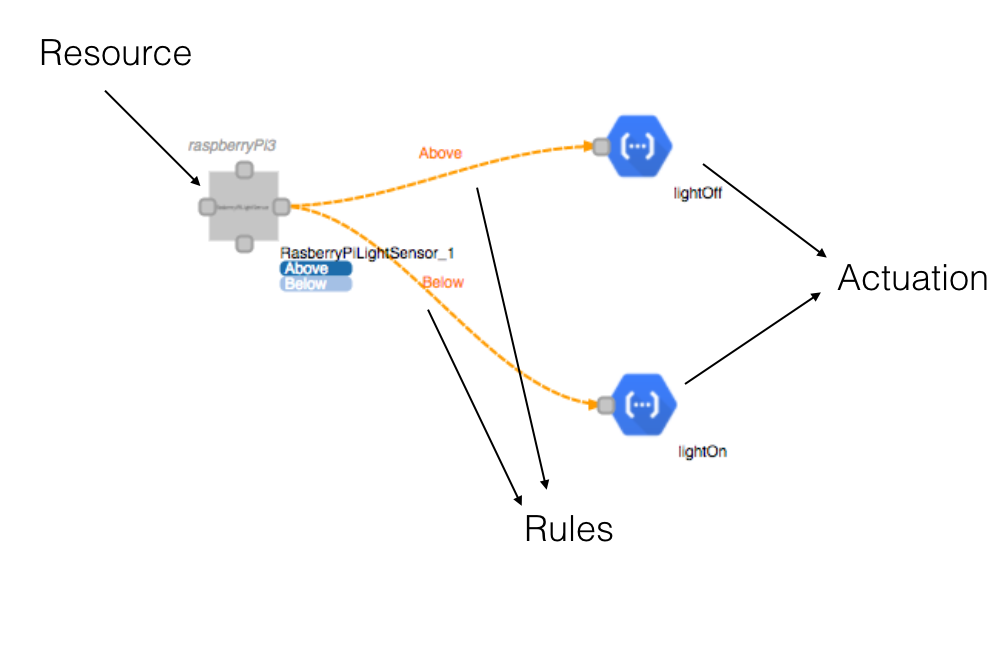
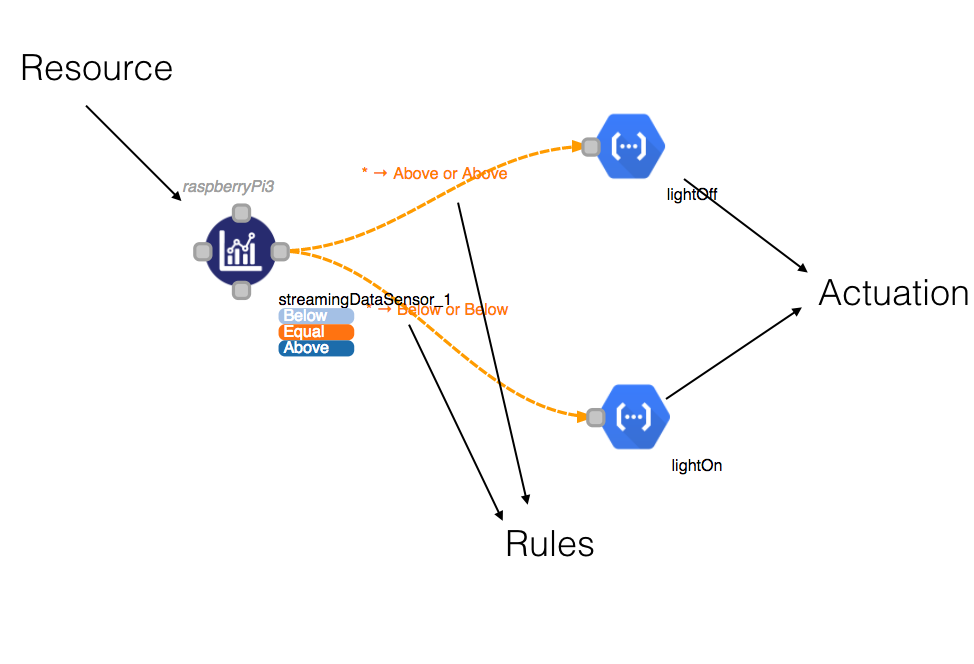
refactored google pub sub docs (#13)

diff --git a/content/iothubs/google.md b/content/iothubs/google.md
@@ -100,17 +100,39 @@ In the Google Cloud Menu go to ‘Pub/Sub’ and choose ‘Topics’, you will n
 Enter a unique name identifier and choose the delivery type.
 
 {{% alert info %}}
-For sending data to waylay select ‘Push into an endpoint url’ -> This will be the url of the Webscript that will manipulate the data to push it to the Waylay Broker.
-{{% /alert %}}
-
-
-For testing purposes on the Staging platform on waylay you can use this endpoint URL:
-
-https://webscripts-staging.waylay.io/api/v1/6ccc8843-d78d-49e8-84c4-3734a4af9929/testMQTT
-
-{{% alert info %}}
+For sending data to waylay select ‘Push into an endpoint url’ -> This will be the url of the Webscript that will manipulate the data to push it to the Waylay Broker (**see next section**).
 For pushing data from a Subscription to the Waylay Webscript you should contact us for verifying the domain name for you. Contact us at support@waylay.io
 {{% /alert %}}
+
+## Webscript
+
+Create a webscript on your own domain. Use following code to manipulate the data that comes from your Topic.
+
+```javascript
+waylay.data.baseUrl = 'https://data.waylay.io'
+
+function handleRequest (req, res) {
+  const { body } = req
+  const { attributes, data } = body.message
+  
+  try {
+    const payload = new Buffer(data, 'base64').toString('utf8')  
+    const { deviceId } = attributes
+    
+    const parsedPayload = JSON.parse(payload)
+    
+    // This creates a Resource inside the waylay platform with name = deviceId
+    waylay.data.postSeries(deviceId, parsedPayload)
+      .then(() => {
+        res.sendStatus(204)
+      })
+      .catch(err => res.status(500).send(err))
+  } catch (err) {
+    console.error(err)
+    res.status(400).send(err)
+  }
+}
+```
 
 ## Client code for pushing data to Google Pub/Sub in Node.JS
 
@@ -144,14 +166,13 @@ Quick overview on how we implement Rules in Waylay:
 
 ![overview](/features/iothubs/overview.png)
 
-The resource node (SENSOR) fetches data from a particular resource. (Your resource’s data is being pushed on whatever frequency you push data from your device to the Google Pub/Sub Topic).
+The resource node (SENSOR) streams data from a particular resource. (Your resource’s data is being pushed on whatever frequency you push data from your device to the Google Pub/Sub Topic).
 The Sensor has in this examples 2 boundaries; Above and Below, when its Above or Below a specific value it activates or deactivates a light. This actuation is just a simple Message that is pushed to a Topic that your device can listen to in order to take action depending on the message.  
 
-To make a Template yourself go to:
-https://staging.waylay.io/#/designer
+To make a Template yourself go to the end of the page and see section **testing standard template**
 
 For further information on how the Designer, Sensors and Actuators work go to:
-https://docs.waylay.io/
+https://docs.waylay.io/api/sensors-and-actuators/
 
 ## Allowing Waylay to publish to your Topics
 
@@ -178,15 +199,91 @@ https://cloud.google.com/pubsub/docs/access-control
 
 ## Actuating back to your state Pub/Sub Topic
 
-In the Waylay designer search for: ```GoogleWebscriptActuator```
+In the Waylay designer search for: ```GoogleIoTCoreWebscriptActuator```
 
 Parameters to provide in the actuator:
 
 * Waylay webscript URL: https://webscripts-staging.waylay.io/api/v1/6ccc8843-d78d-49e8-84c4-3734a4af9929/publishToGoogleTest
 * Google Project Id
 * Google Pub/Sub Topicname
-* JSON to publish ex.: ```{“lightValue”: “500”}```
+* JSON to publish ex.: ```{"lightValue”: "500”}```
 
 Subscribing to your state Pub/Sub Topic on your physical device
 Examples can be found here:
 https://github.com/googleapis/nodejs-pubsub/blob/master/samples/subscriptions.js
+
+## Testing a standard template
+
+Prerequisites:
+
+* Device with unique Id
+* Active Topic linked to a device
+* Active State Topic linked to a device (with permission configured that Waylay can push into this topic)
+* Active Subscription which pushes into a webscript endpoint
+* Webscript with the code provided in the Webscript section
+* Acces to the Waylay platform
+
+Things to provide in this template:
+
+* replace ${yourResource} with your deviceId
+* replace ${yourProjectId} with your Google Cloud Platform ID
+* replace ${yourTopicname} with the Topic's name to push state data to (this is configured for each registry (See Device section))
+
+```json
+curl --user ${userApiKey}:/${userApiSecret} -H "Content-Type:application/json" -X POST -d '{
+"name" : "googleIoTExample",
+ "sensors": [
+   {
+     "label": "streamDataSensor_1",
+     "name": "streamingDataSensor",
+     "version": "1.1.0",
+     "resource" : "${yourResource}",
+     "position": [150, 150]
+   }
+ ],
+ "actuators": [
+   {
+     "label": "lightOff",
+     "name": "GoogleIoTCoreWebscriptActuator",
+     "version": "0.0.2",
+     "properties": {
+       "url": "${webscripturl}",
+       "json": "{ \"lightStatus\": \"off\" }",
+       "projectId": "${yourprojectid}",
+       "topicname": "${yourtopicname}"
+     },
+     "position": [512,365]
+   },
+   {
+     "label": "lightOn",
+     "name": "GoogleIoTCoreWebscriptActuator",
+     "version": "0.0.2",
+     "properties": {
+       "url": "${webscripturl}",
+       "json": "{ \"lightStatus\": \"on\" }",
+       "projectId": "${yourprojectid}",
+       "topicname": "${yourtopicname}"
+     },
+     "position": [512,172]
+   }
+ ],
+ "triggers": [
+   {
+     "destinationLabel": "lightOn",
+     "sourceLabel": "streamDataSensor_1",
+     "statesTrigger": ["Above"]
+   },
+   {
+     "destinationLabel": "lightOff",
+     "sourceLabel": "streamDataSensor_1",
+     "statesTrigger": ["Below"]
+   }
+ ],
+ "task": {
+   "type": "reactive",
+   "start": true,
+   "name": "Rule 1",
+   "resource": "testresource"
+ }
+}' "https://staging.waylay.io/api/templates"
+```
